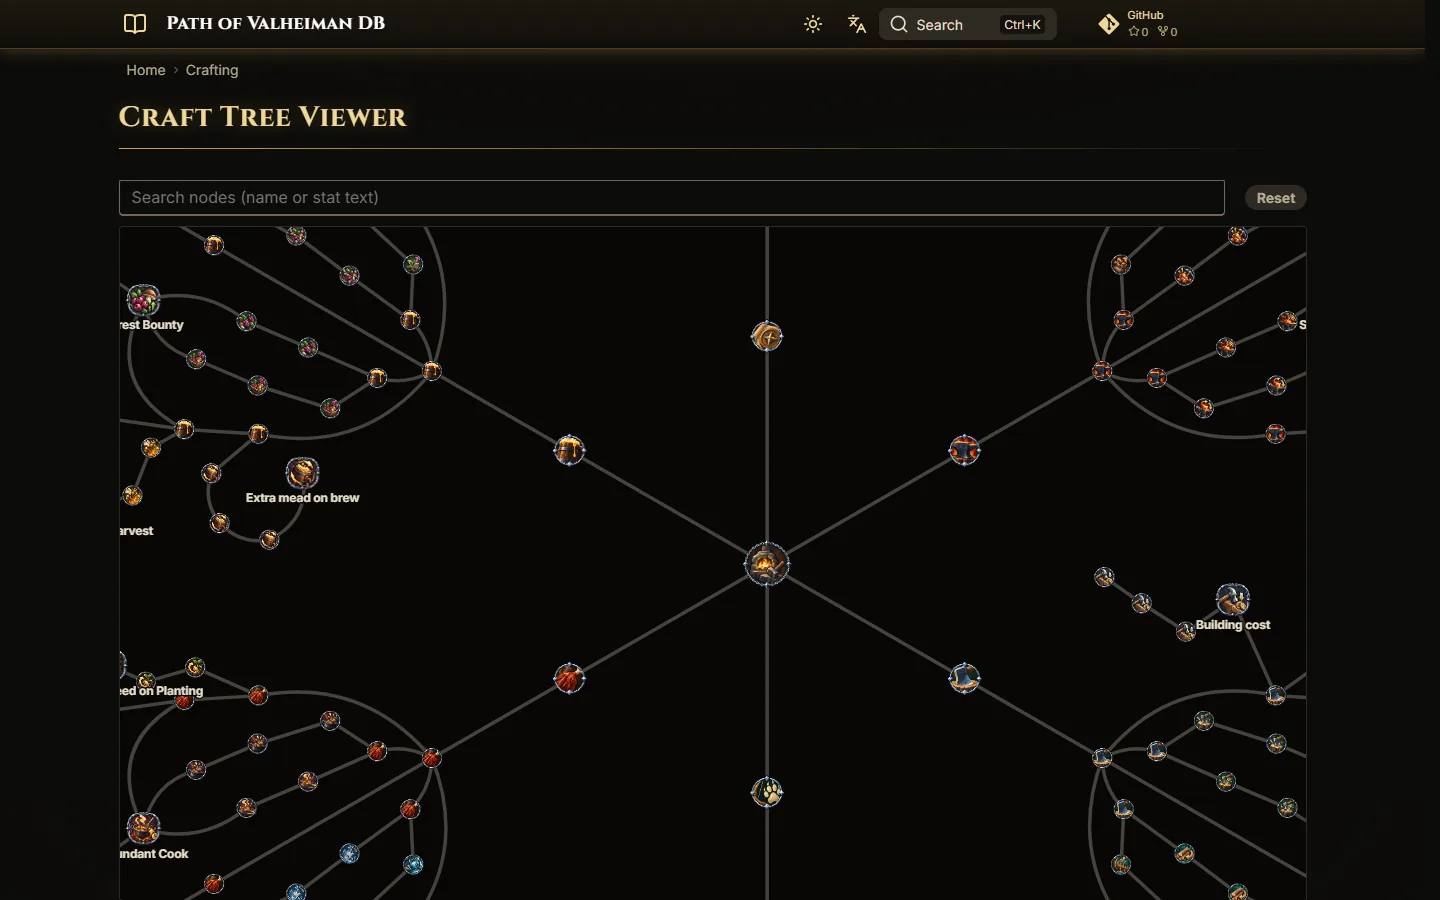
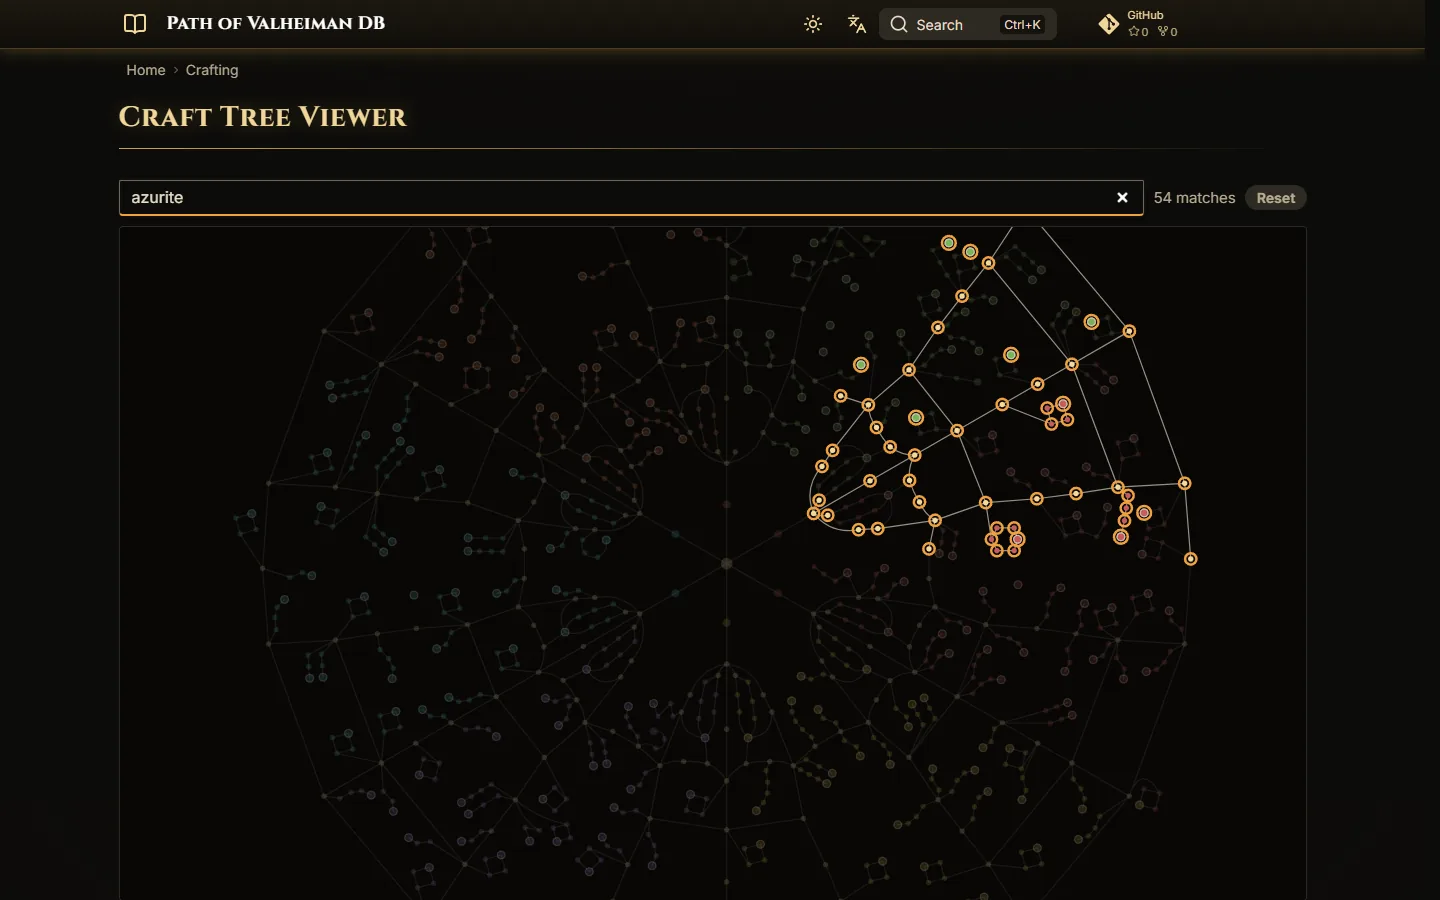
README: passive tree shown without search; the craft tree shows the search

diff --git a/README.md b/README.md
@@ -16,8 +16,8 @@ Every page is generated from the mod's own files, so the wiki matches each relea
 
 | | |
 |---|---|
-| ![Keystones with their in-game icons and effects](.github/screenshots/keystones.webp) | ![Craft tree viewer with professions and notables](.github/screenshots/crafting.webp) |
-| **Keystones, notables and masteries**, with the game's icons and wording | **Crafting**: the craft tree, professions, quests, masteries and buildings |
+| ![Keystones with their in-game icons and effects](.github/screenshots/keystones.webp) | ![Craft tree viewer searching for azurite: the matching nodes light up](.github/screenshots/crafting.webp) |
+| **Keystones, notables and masteries**, with the game's icons and wording | **Crafting**: the craft tree, searchable by name or stat text, with professions, quests and buildings |
 | ![An item base with its stats, recipe and mods](.github/screenshots/item-base.webp) | ![Unique items with their icons, lines and drop sources](.github/screenshots/uniques.webp) |
 | **Items**: every base with stats, recipe and its full mod pool | **Uniques, jewels and currency**, with their lines and where they drop |
 | ![Monster modifiers with their icons and values](.github/screenshots/monster-mods.webp) | ![A boss page: summoning, health and damage, mechanics and drops](.github/screenshots/boss.webp) |
